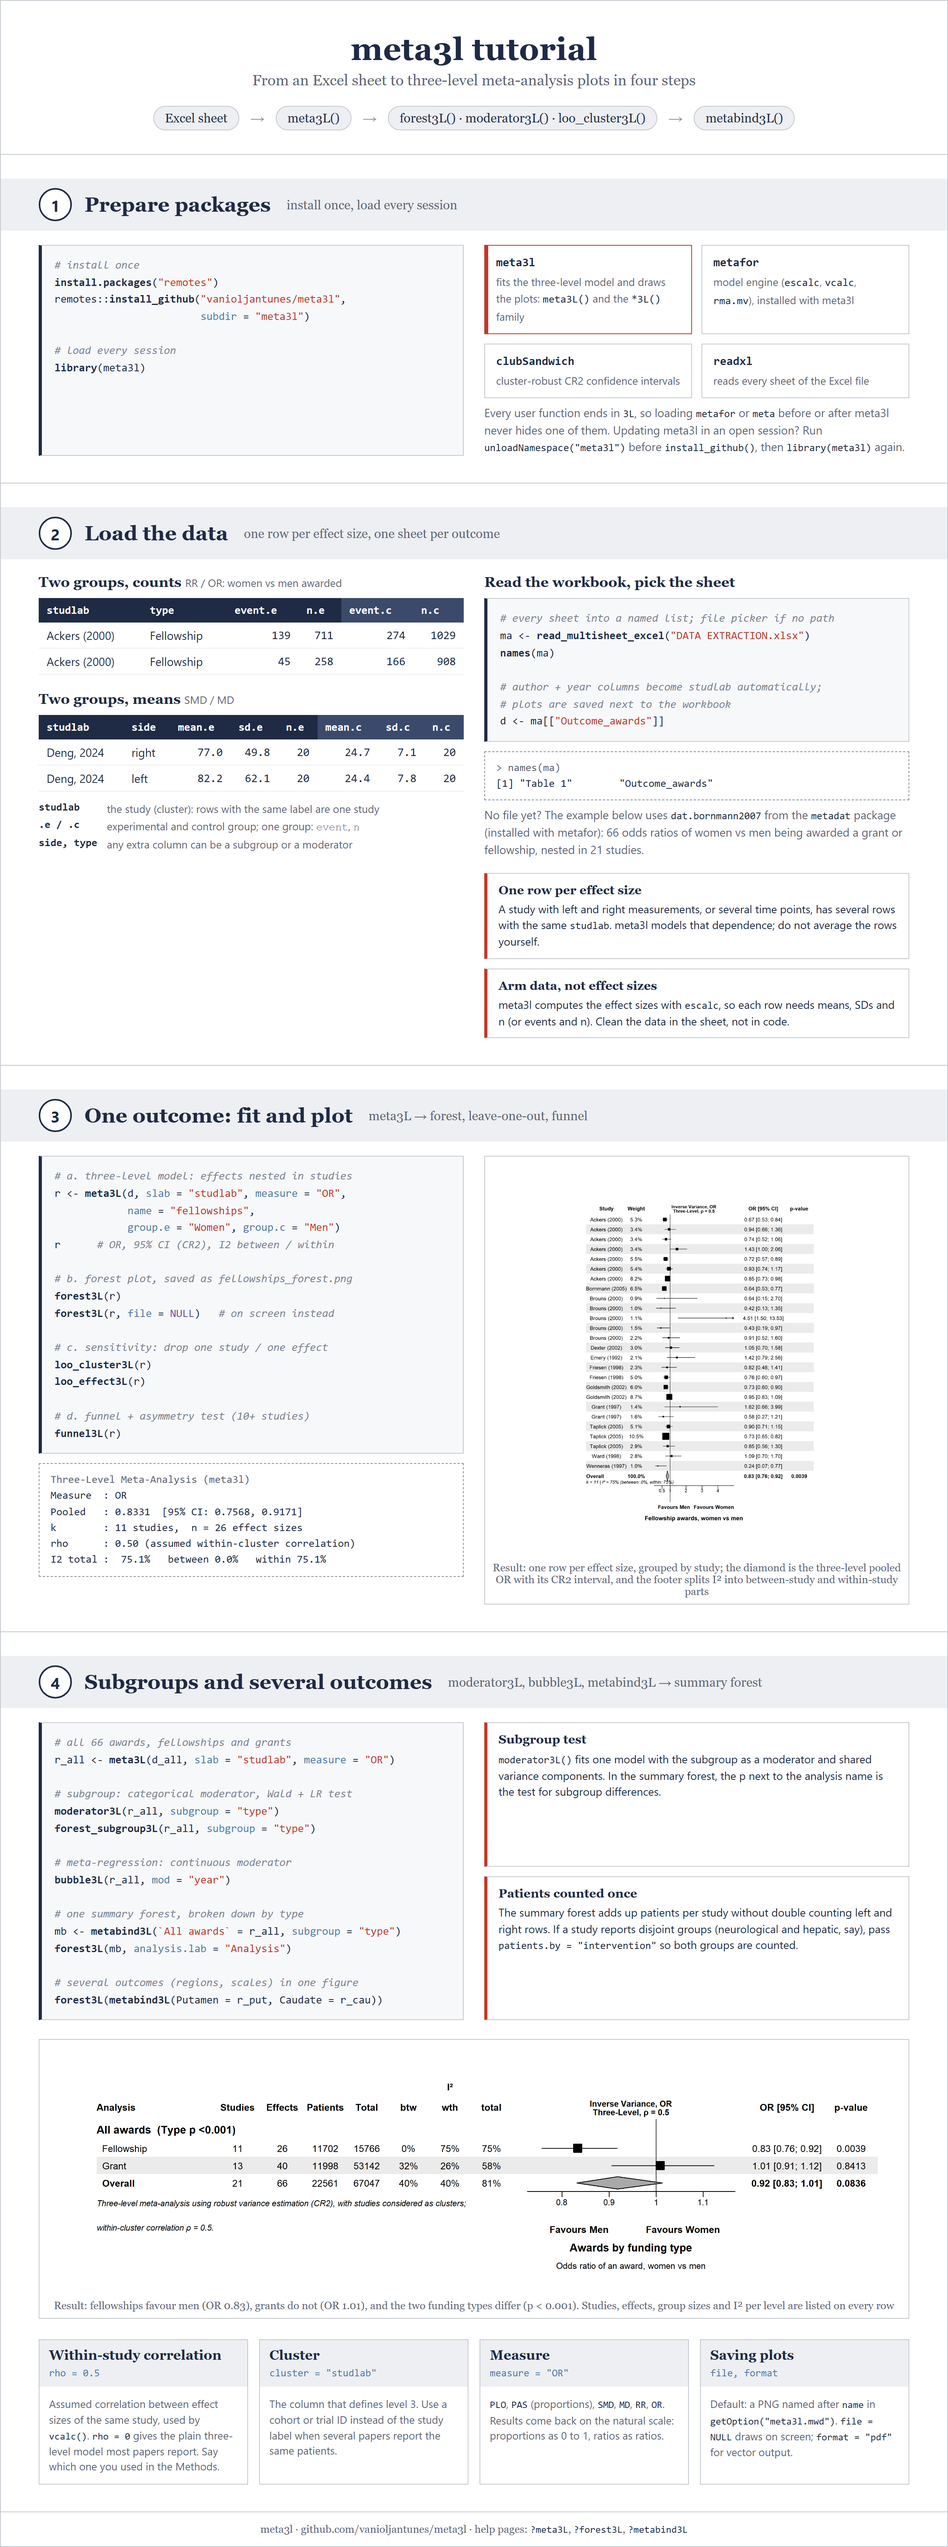
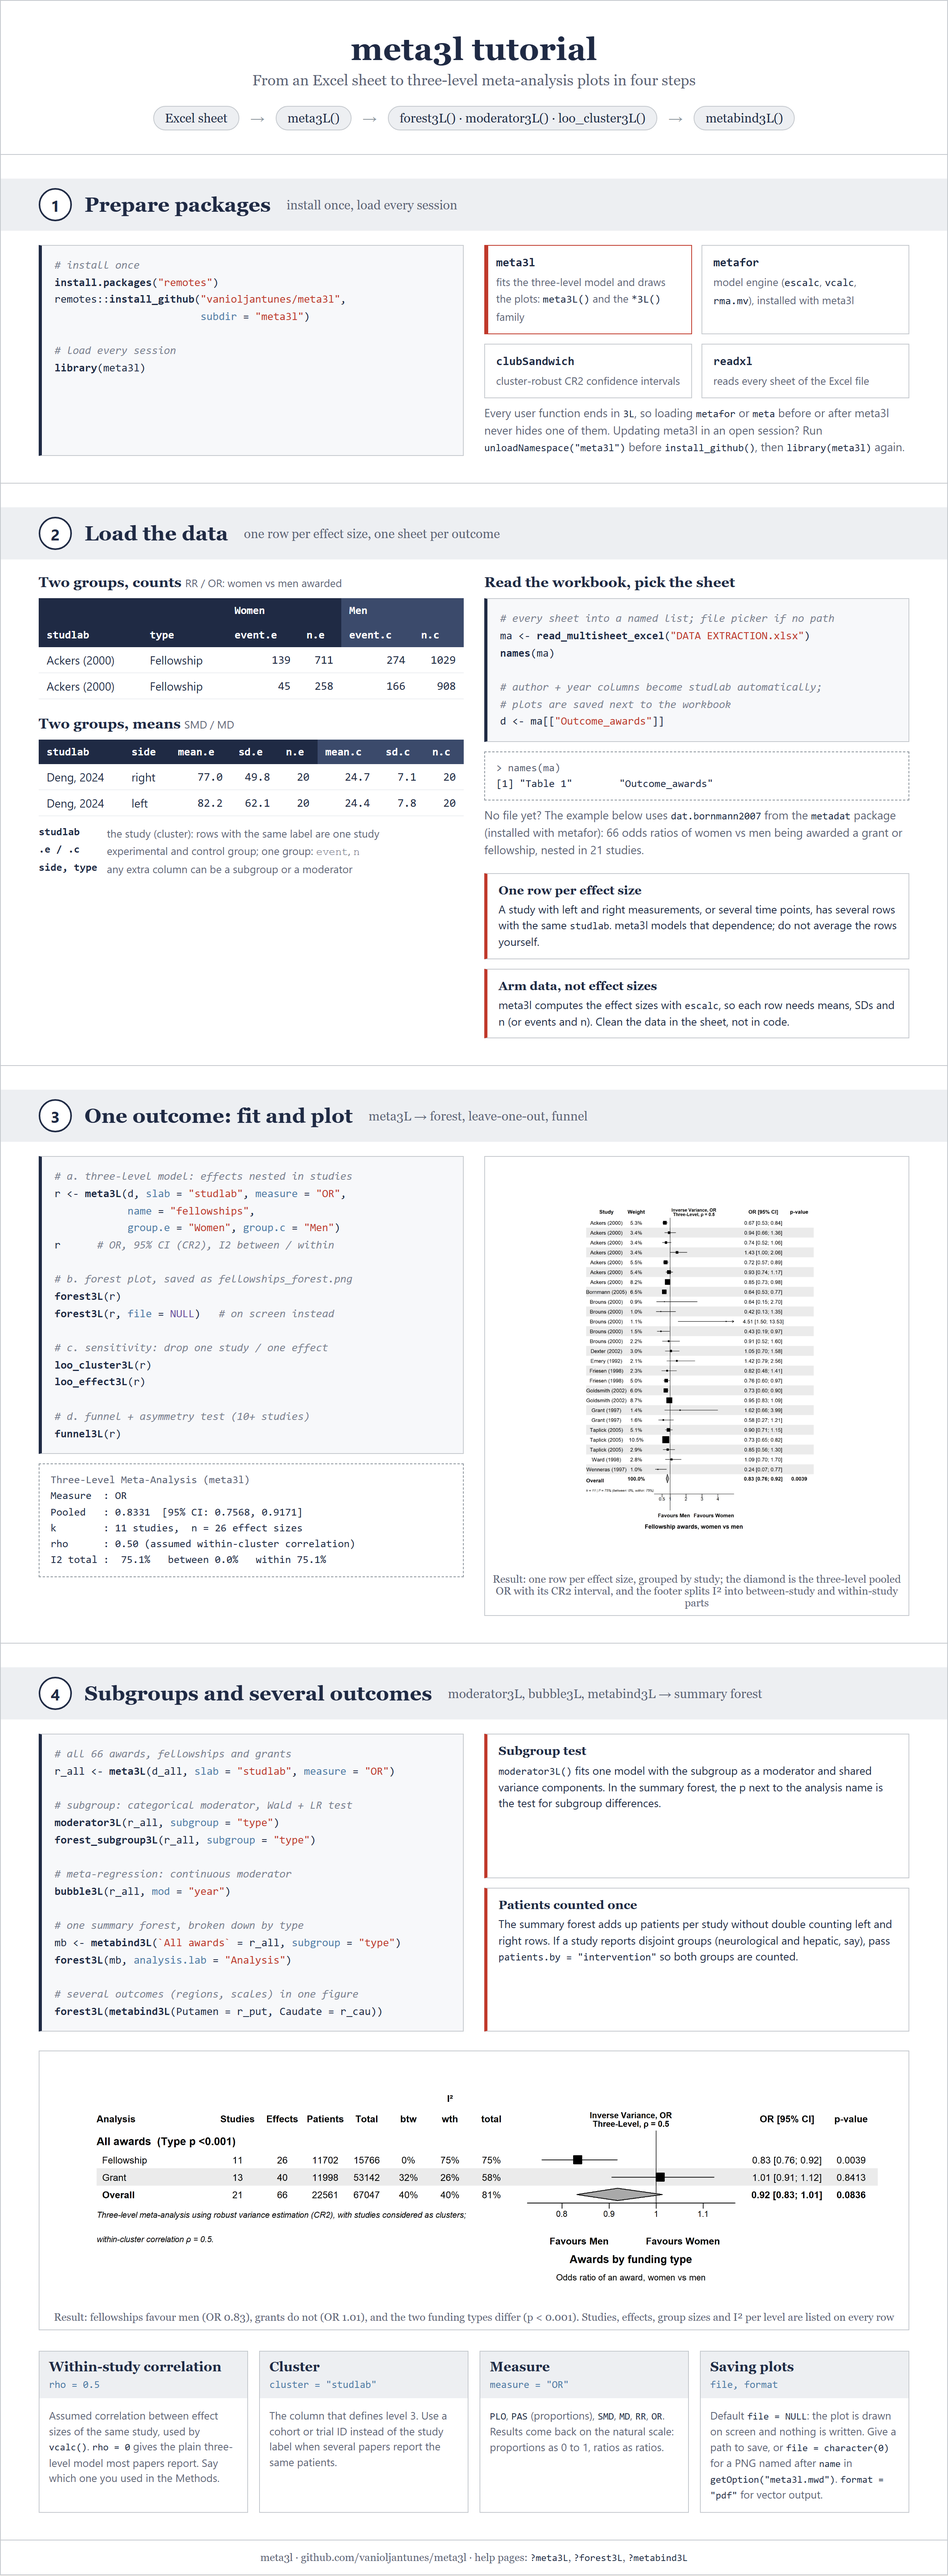
feat: draw plots on screen by default and stop the k/I2 footer overlapping the axis
- file = NULL is now the default for every plot function: the plot is drawn
  and nothing is written unless a path (or character(0)) is given
- forest3L.meta3L draws the k / I2 line in its own row and shrinks it with
  the new fit_cex() helper so it never runs into the axis or its labels
- tutorial counts table labels the arms as Women and Men
- version 0.2.1

diff --git a/meta3l/tutorial/tutorial.html b/meta3l/tutorial/tutorial.html
@@ -155,7 +155,10 @@ remotes::<span class="f">install_github</span>(<span class="s">"vanioljantunes/m
       <div>
         <h3>Two groups, counts <small>RR / OR: women vs men awarded</small></h3>
         <table class="tpl">
-          <thead><tr><th>studlab</th><th>type</th><th>event.e</th><th>n.e</th><th class="e">event.c</th><th class="e">n.c</th></tr></thead>
+          <thead>
+            <tr><th></th><th></th><th colspan="2">Women</th><th class="e" colspan="2">Men</th></tr>
+            <tr><th>studlab</th><th>type</th><th>event.e</th><th>n.e</th><th class="e">event.c</th><th class="e">n.c</th></tr>
+          </thead>
           <tbody>
             <tr><td>Ackers (2000)</td><td>Fellowship</td><td class="n">139</td><td class="n">711</td><td class="n">274</td><td class="n">1029</td></tr>
             <tr><td>Ackers (2000)</td><td>Fellowship</td><td class="n">45</td><td class="n">258</td><td class="n">166</td><td class="n">908</td></tr>
@@ -297,8 +300,9 @@ mb &lt;- <span class="f">metabind3L</span>(<span class="s">`All awards`</span> =
       </div>
       <div class="card">
         <div class="hd"><b>Saving plots</b><code>file, format</code></div>
-        <div class="bd">Default: a PNG named after <code>name</code> in
-          <code>getOption("meta3l.mwd")</code>. <code>file = NULL</code> draws on screen;
+        <div class="bd">Default <code>file = NULL</code>: the plot is drawn on screen and
+          nothing is written. Give a path to save, or <code>file = character(0)</code> for a
+          PNG named after <code>name</code> in <code>getOption("meta3l.mwd")</code>.
           <code>format = "pdf"</code> for vector output.</div>
       </div>
     </div>

diff --git a/README.md b/README.md
@@ -43,8 +43,8 @@ figures without writing the model by hand.
   summary forest across outcomes, and a brain map for neuroimaging outcomes.
 - **Sensible defaults, few arguments.** Column names follow the `meta`
   package (`mean.e`, `sd.e`, `n.e`, ...) and are detected automatically
-  when your sheet already uses them. Plots are saved as PNG unless you pass
-  `file = NULL` to draw them on screen.
+  when your sheet already uses them. Plots are drawn on screen and nothing is
+  written to disk unless you ask for a file.
 
 ---
 
@@ -215,9 +215,10 @@ State the value you used in the Methods.
 
 ## 5. Plots, subgroups and sensitivity
 
-Every plot function saves a PNG named after the analysis by default. Pass
-`file = NULL` to draw on screen, `file = "name.pdf", format = "pdf"` for a
-PDF. The output folder is `getOption("meta3l.mwd")`.
+Every plot function draws on screen and writes nothing by default
+(`file = NULL`). Pass `file = "name.png"` to save it, add `format = "pdf"` for
+a PDF, or `file = character(0)` to get a PNG named after the analysis inside
+`getOption("meta3l.mwd")`.
 
 ### Forest plot
 
